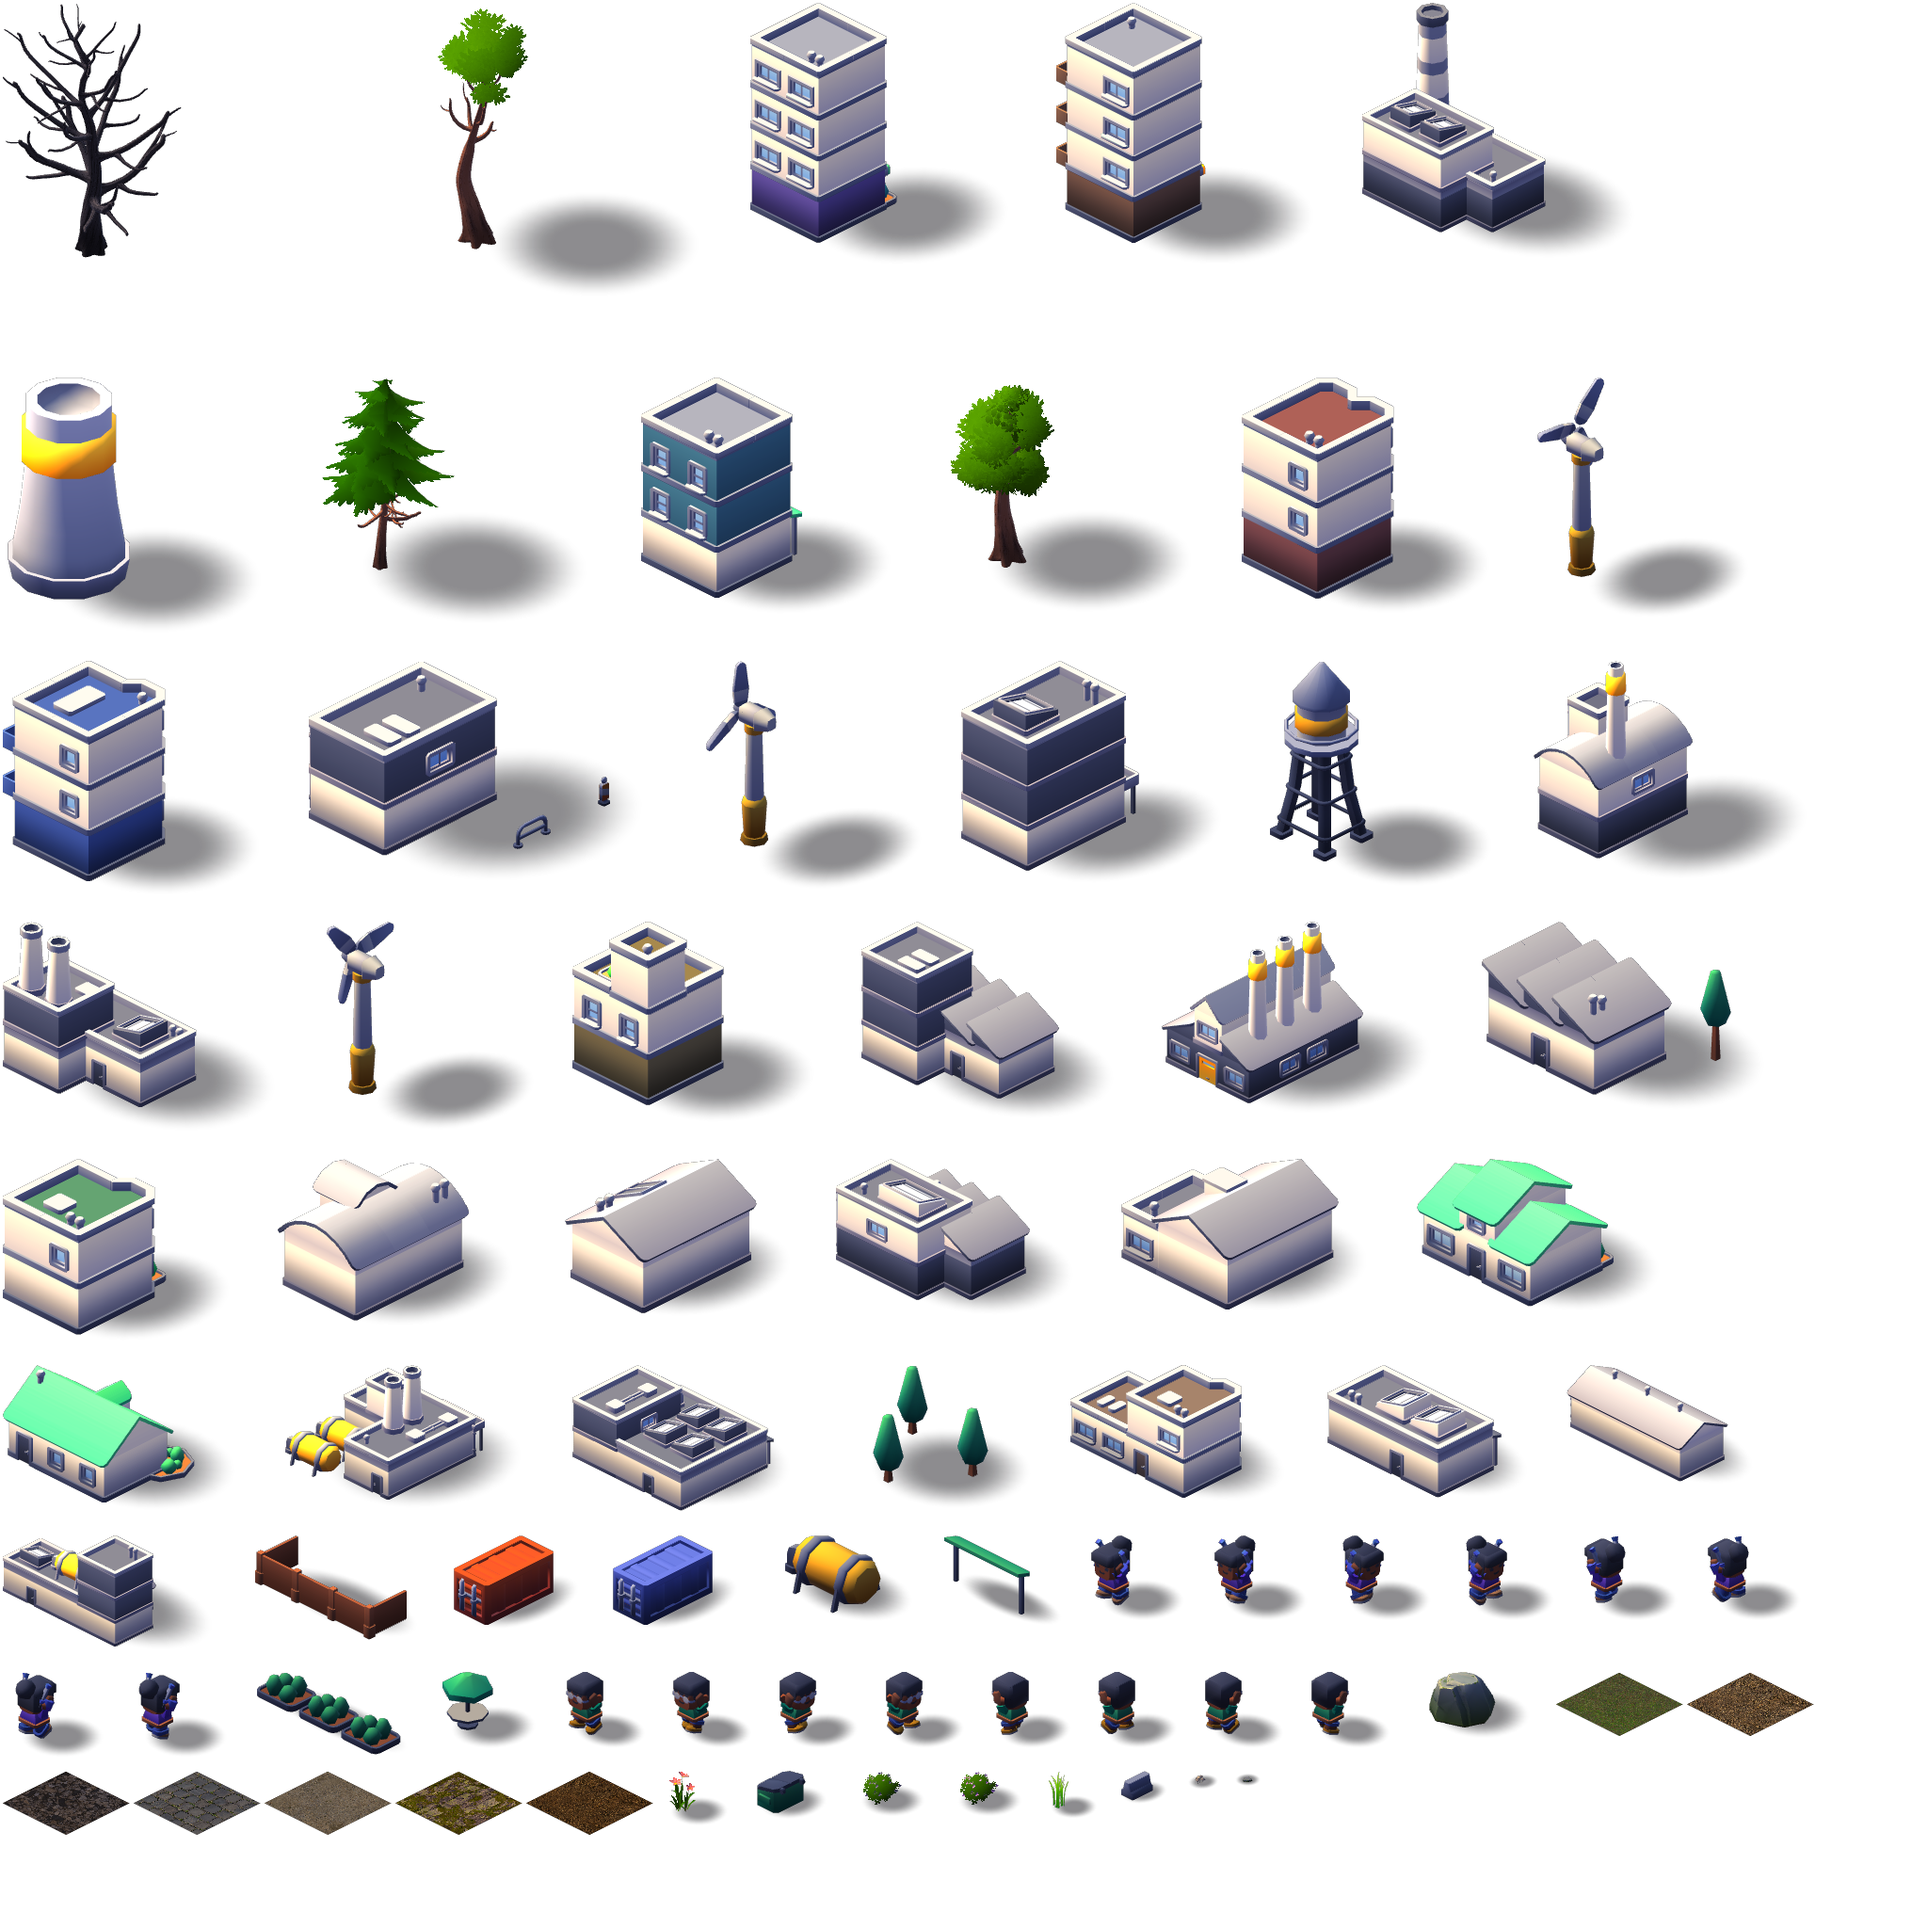
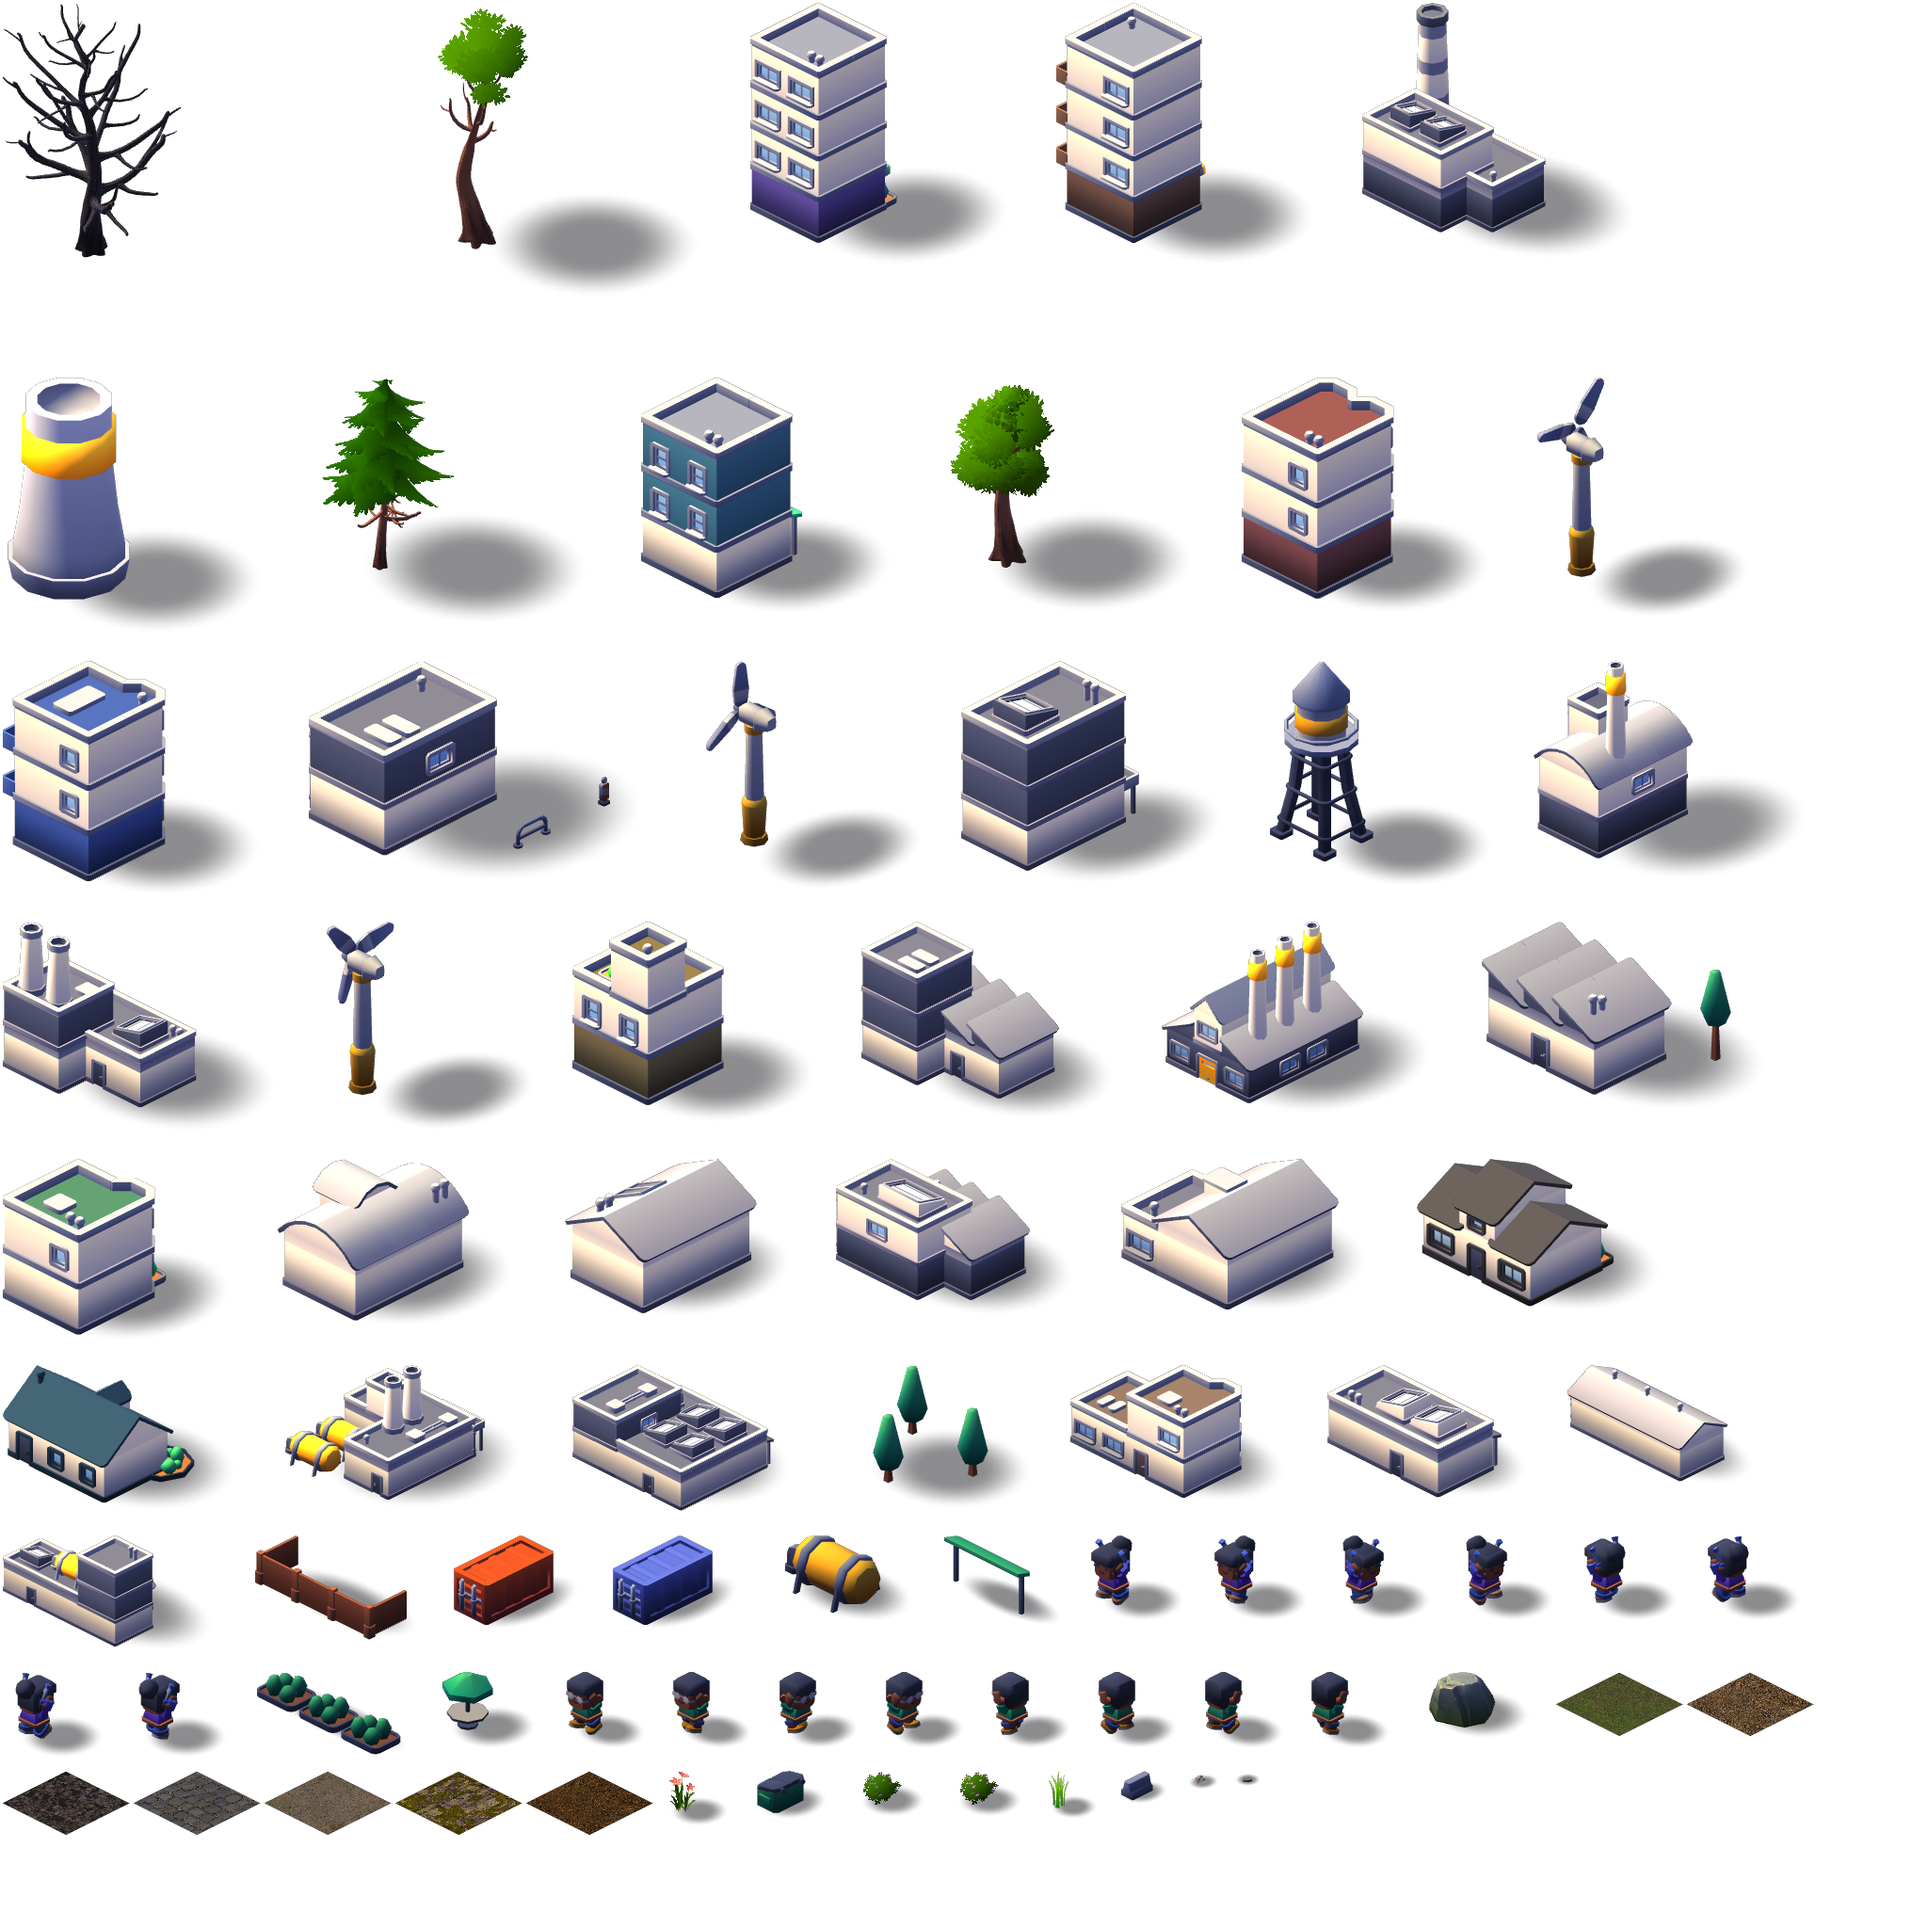
feat: mai nha me hien dai het xanh neon, doi sang ngoi xam
`mau_cot` them dang `{ "thay": [r,g,b] }`: thay han mau cua mot cot va bo
luon anh cot do. Mau NHAN khong bao gio keo duoc mot mau ra khoi sac cua
no - do 19/09 tam bo nhan khac nhau tren mai `ks:building-type-a`, ca tam
deu van ra xanh hay vang.

Cot 1 la mai + khung cua + chan tuong cua goi City Kit (do bang cach son
do tung cot). `nha_dan` mai ngoi xam am, `nha_chai` mai xam lam - hai loai
nay la hai loai duy nhat cua goi co mai xanh la, ma `nha_dan` lai la nha
dong nhat thanh pho nen ca man hinh truoc day xanh neon.

Claude-Session: https://claude.ai/code/session_01SGj55VztvB84zs9WL6RyUg

Changed region(s): [[0.7188, 0.5938, 0.8438, 0.6875], [0.0, 0.6875, 0.0938, 0.7812]]

diff --git a/tests/Obj.test.ts b/tests/Obj.test.ts
@@ -72,6 +72,32 @@ describe('docObj', () => {
   });
 
   /**
+   * Mau NHAN khong bao gio keo mot mau ra khoi sac cua no: mai xanh la nhan kieu gi cung
+   * ra xanh hay vang. Do 19/09 tren `ks:building-type-a` voi tam bo nhan khac nhau, ca
+   * tam deu van xanh. `thay` la duong duy nhat doi duoc sac.
+   */
+  describe('mau_cot dang `thay`', () => {
+    it('thay han mau cua cot, khong nhan vao mau cu', () => {
+      const r = docObj(duong, {}, false, null, { mau: { 1: { thay: [0.25, 0.5, 0.75] } } });
+      expect(mauDinh(r.dinh, 0)).toEqual([0.25, 0.5, 0.75]);
+      // Tam giac sau o cot 7, khong khai gi -> giu nguyen mau material.
+      expect(mauDinh(r.dinh, 3)).toEqual([1, 1, 1]);
+    });
+
+    it('thay han thi bo luon anh, khong thi toa do anh keo mau cot cu ve', () => {
+      const r = docObj(duong, {}, false, null, { mau: { 1: { thay: [0.25, 0.5, 0.75] } } });
+      expect(r.dinh[0 * BUOC + 11]).toBe(0);
+      expect(r.dinh[3 * BUOC + 11]).toBe(1);
+    });
+
+    it('dang mang van la mau nhan nhu cu, van giu anh', () => {
+      const r = docObj(duong, { colormap: [0.5, 0.5, 0.5] }, false, null, { mau: { 1: [2, 2, 2] } });
+      expect(mauDinh(r.dinh, 0)).toEqual([1, 1, 1]);
+      expect(r.dinh[0 * BUOC + 11]).toBe(1);
+    });
+  });
+
+  /**
    * `ki:windmill` cua Kenney la MOT file chua ca thap (`g windmill`) lan canh quat
    * (`g blades`). Khong tach duoc nhom thi coi xay khong the quay canh ma dung yen than.
    */
